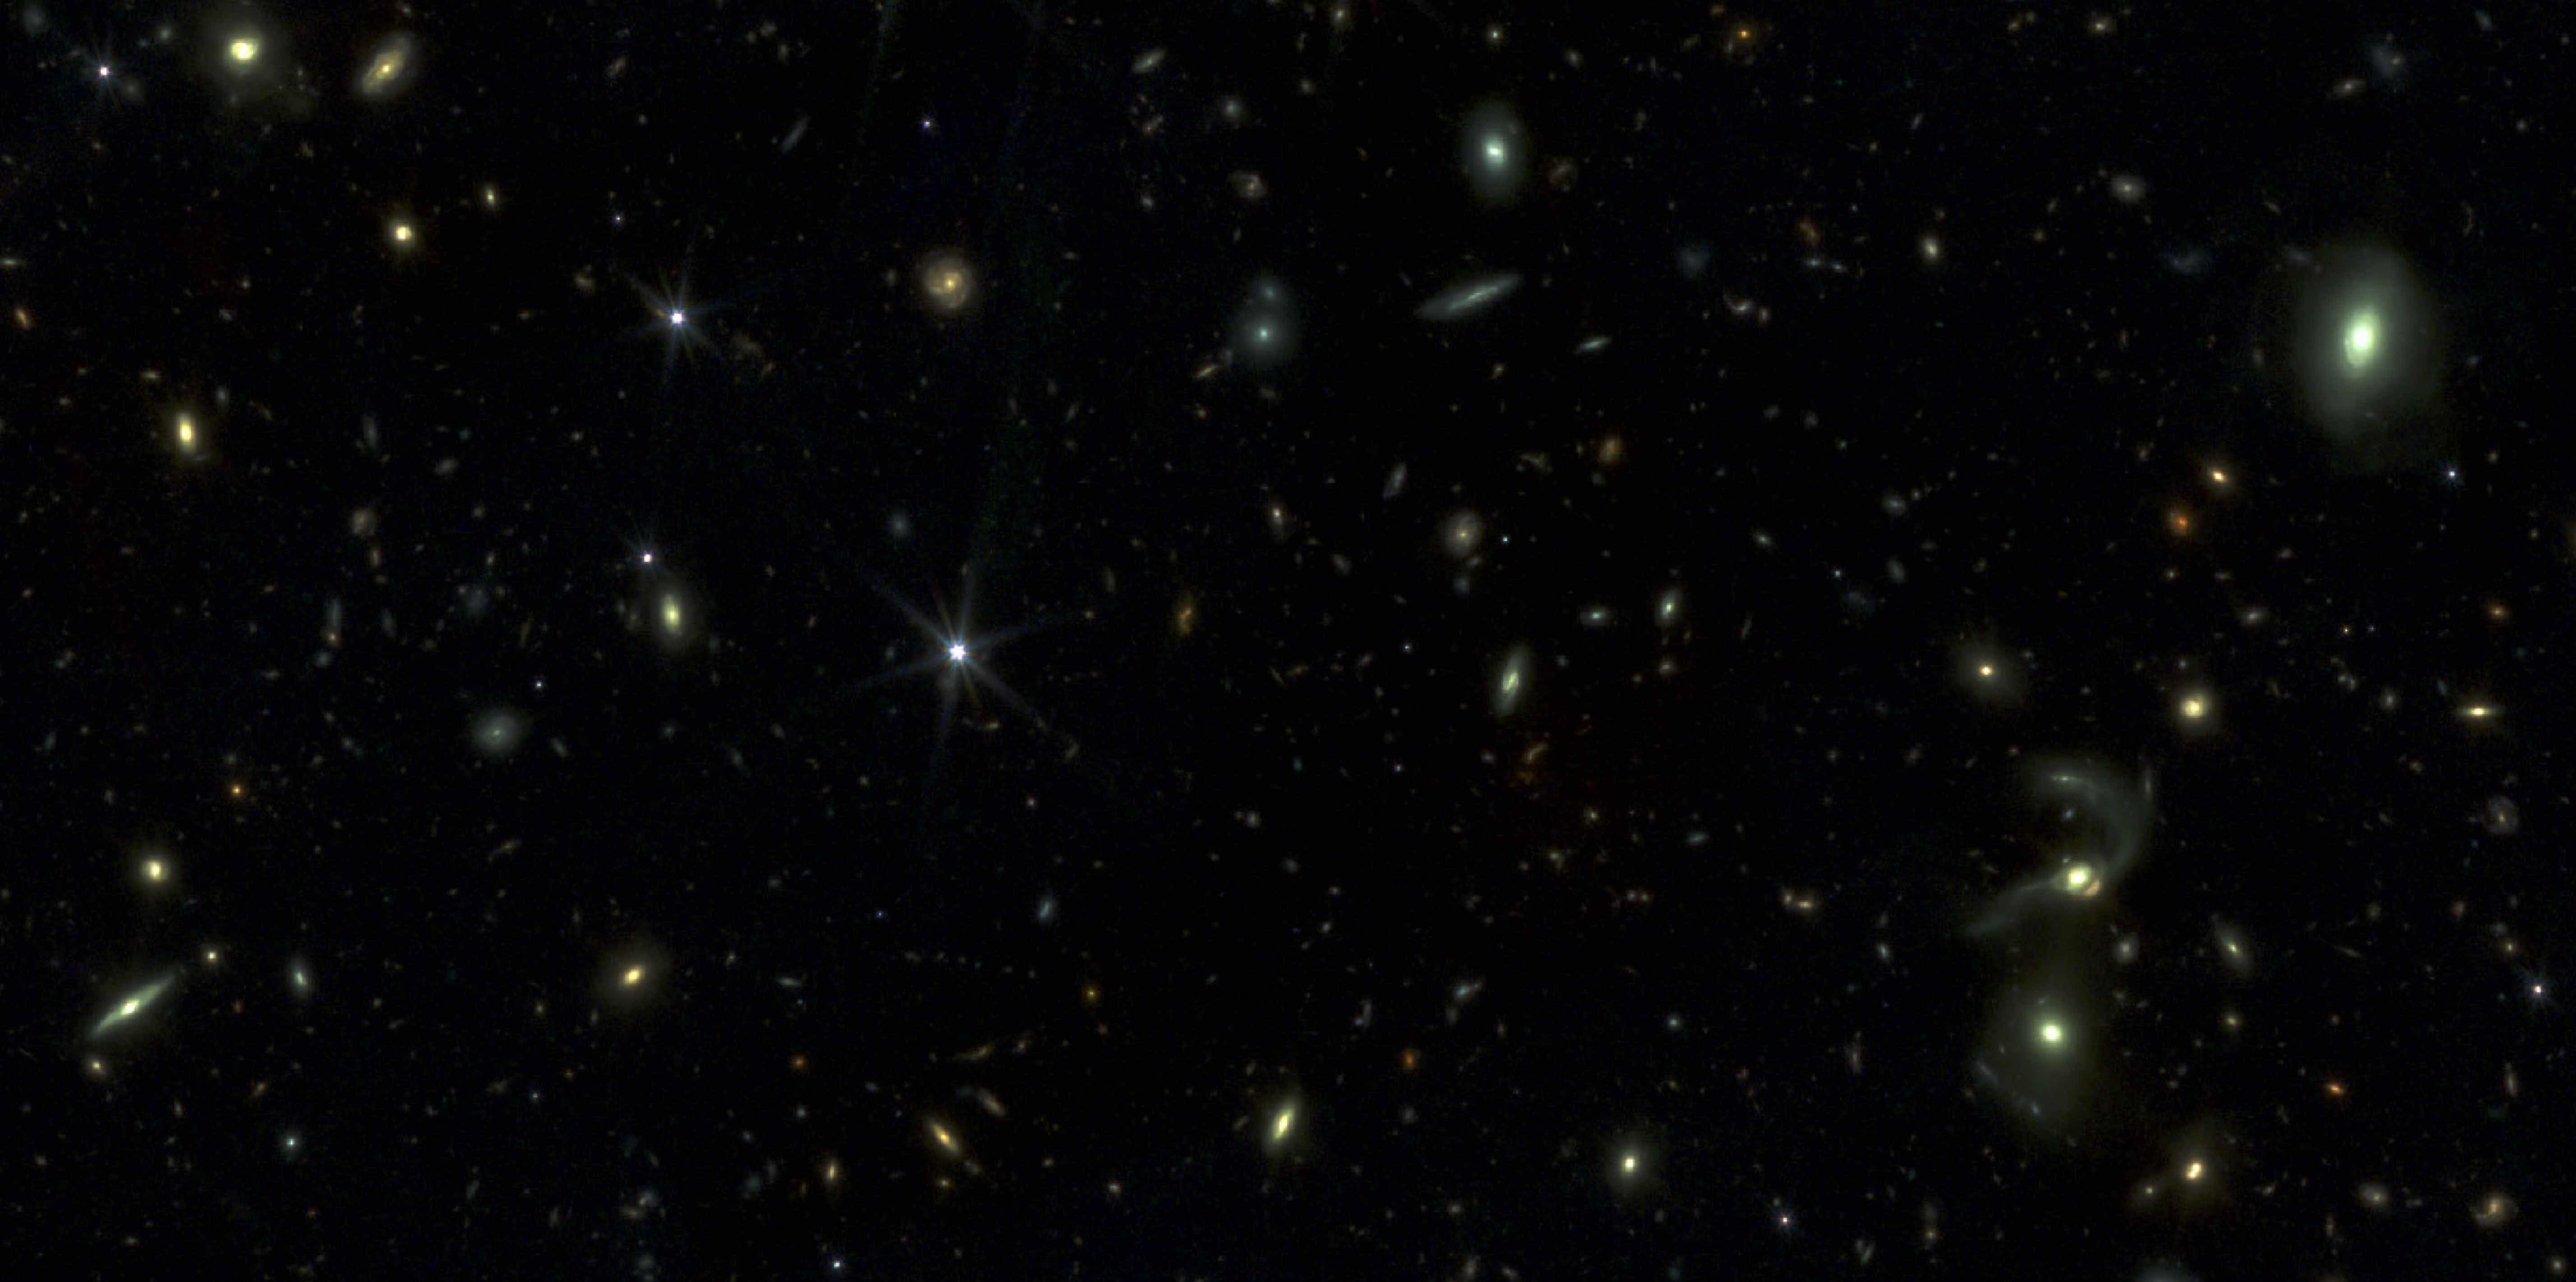
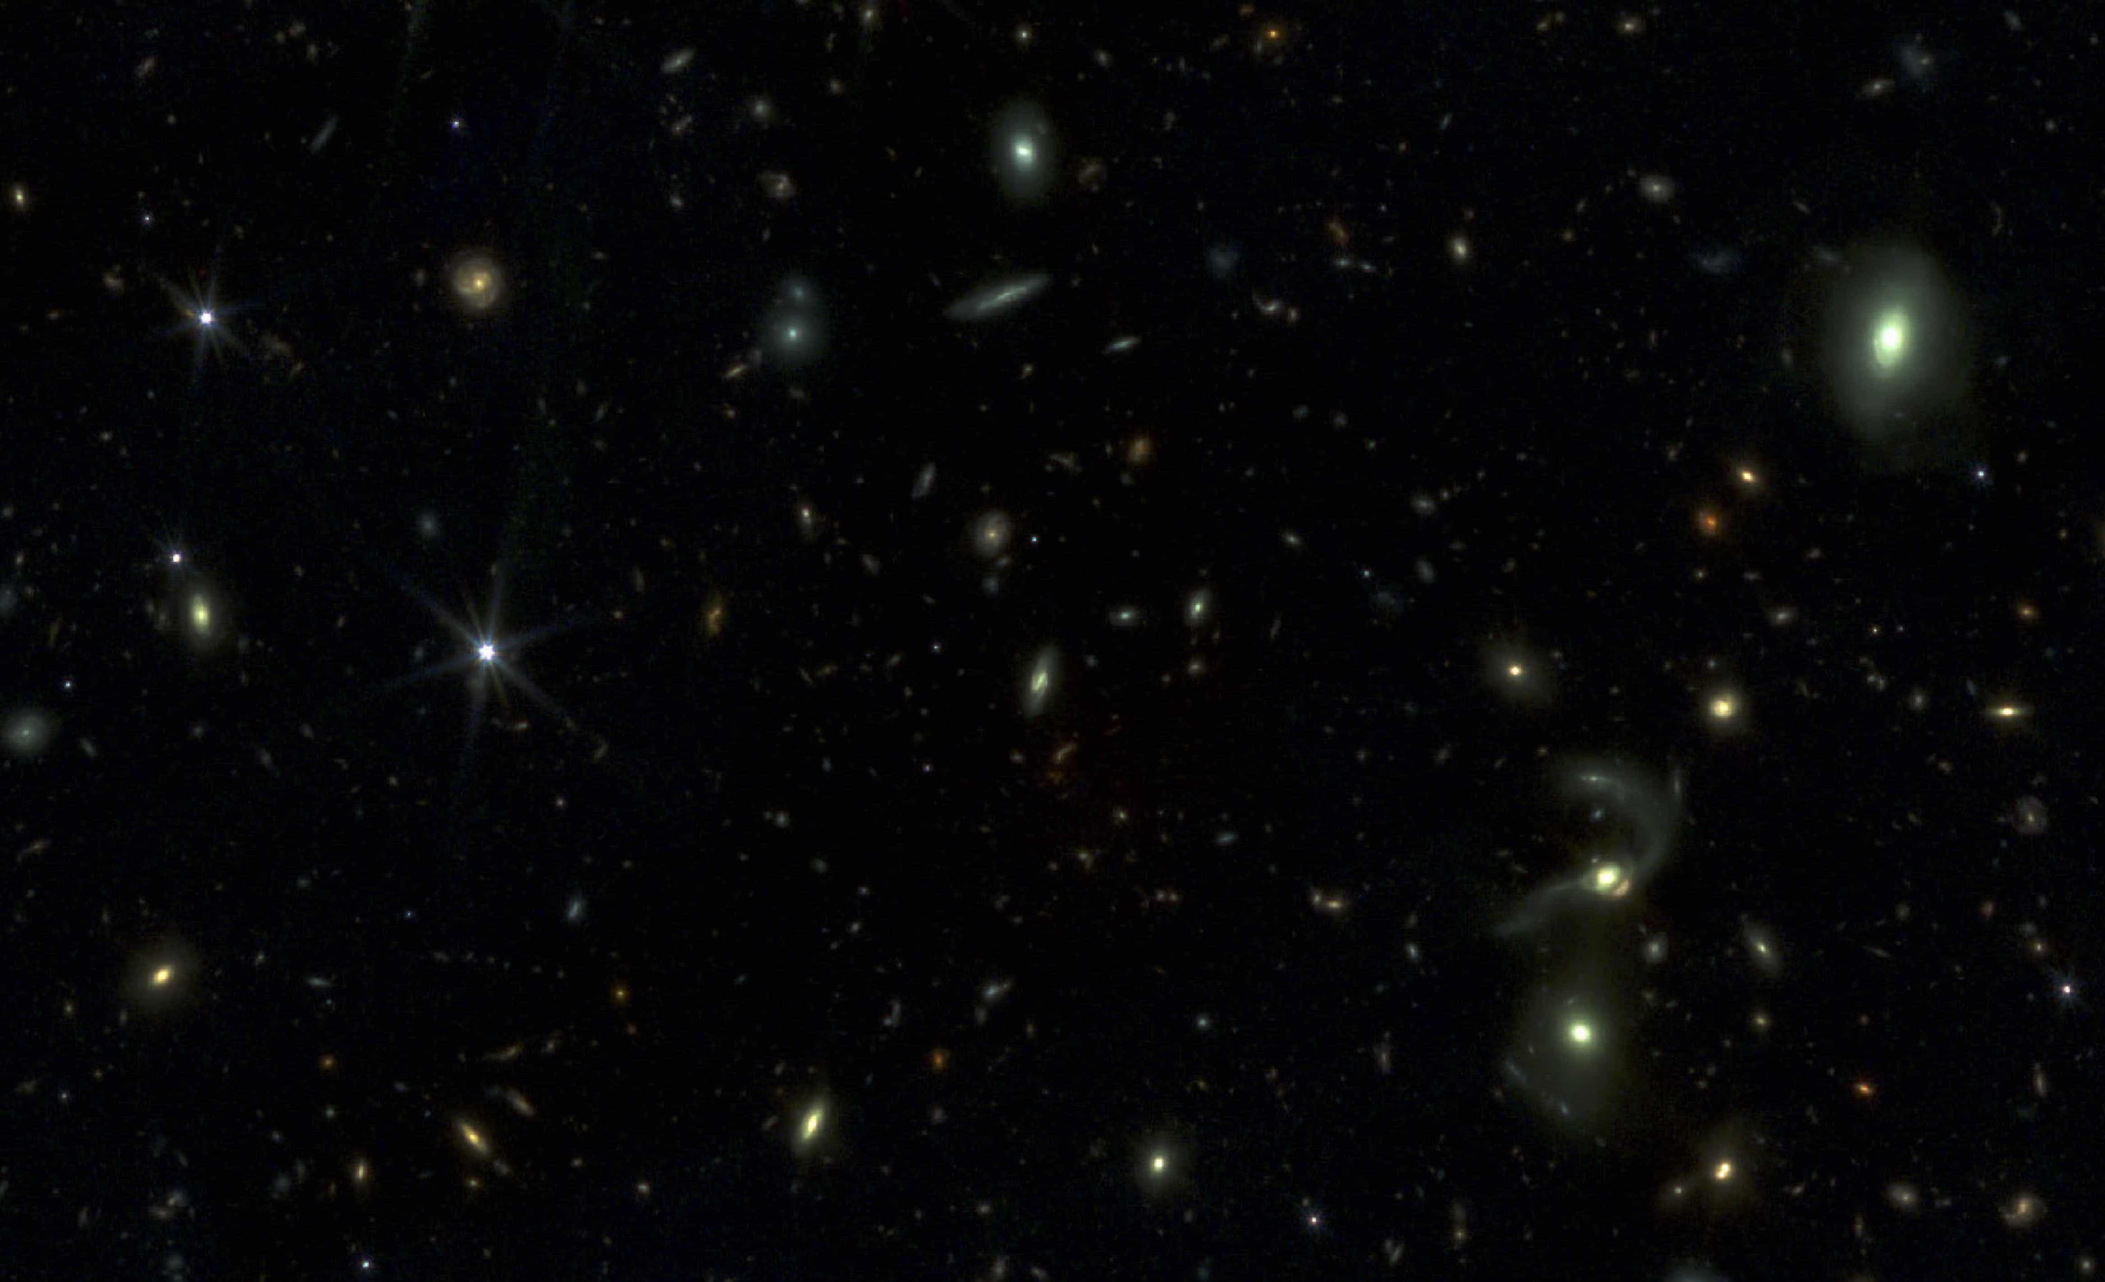
cos4

diff --git a/software/index.html b/software/index.html
@@ -27,6 +27,21 @@
 					    $('#wrapper').append(response);
 					});
 			    </script>
+
+                <style type="text/css">
+                h3  {
+                    color: #242943;
+                    }
+                    #banner{
+                    background-image: url("/images/cosmos4.jpeg")!important;
+                    }
+
+                </style>
+                <style>
+                a:hover{
+                    color:black!important;
+                }
+                </style>
 					
 
 				<!-- Banner -->
